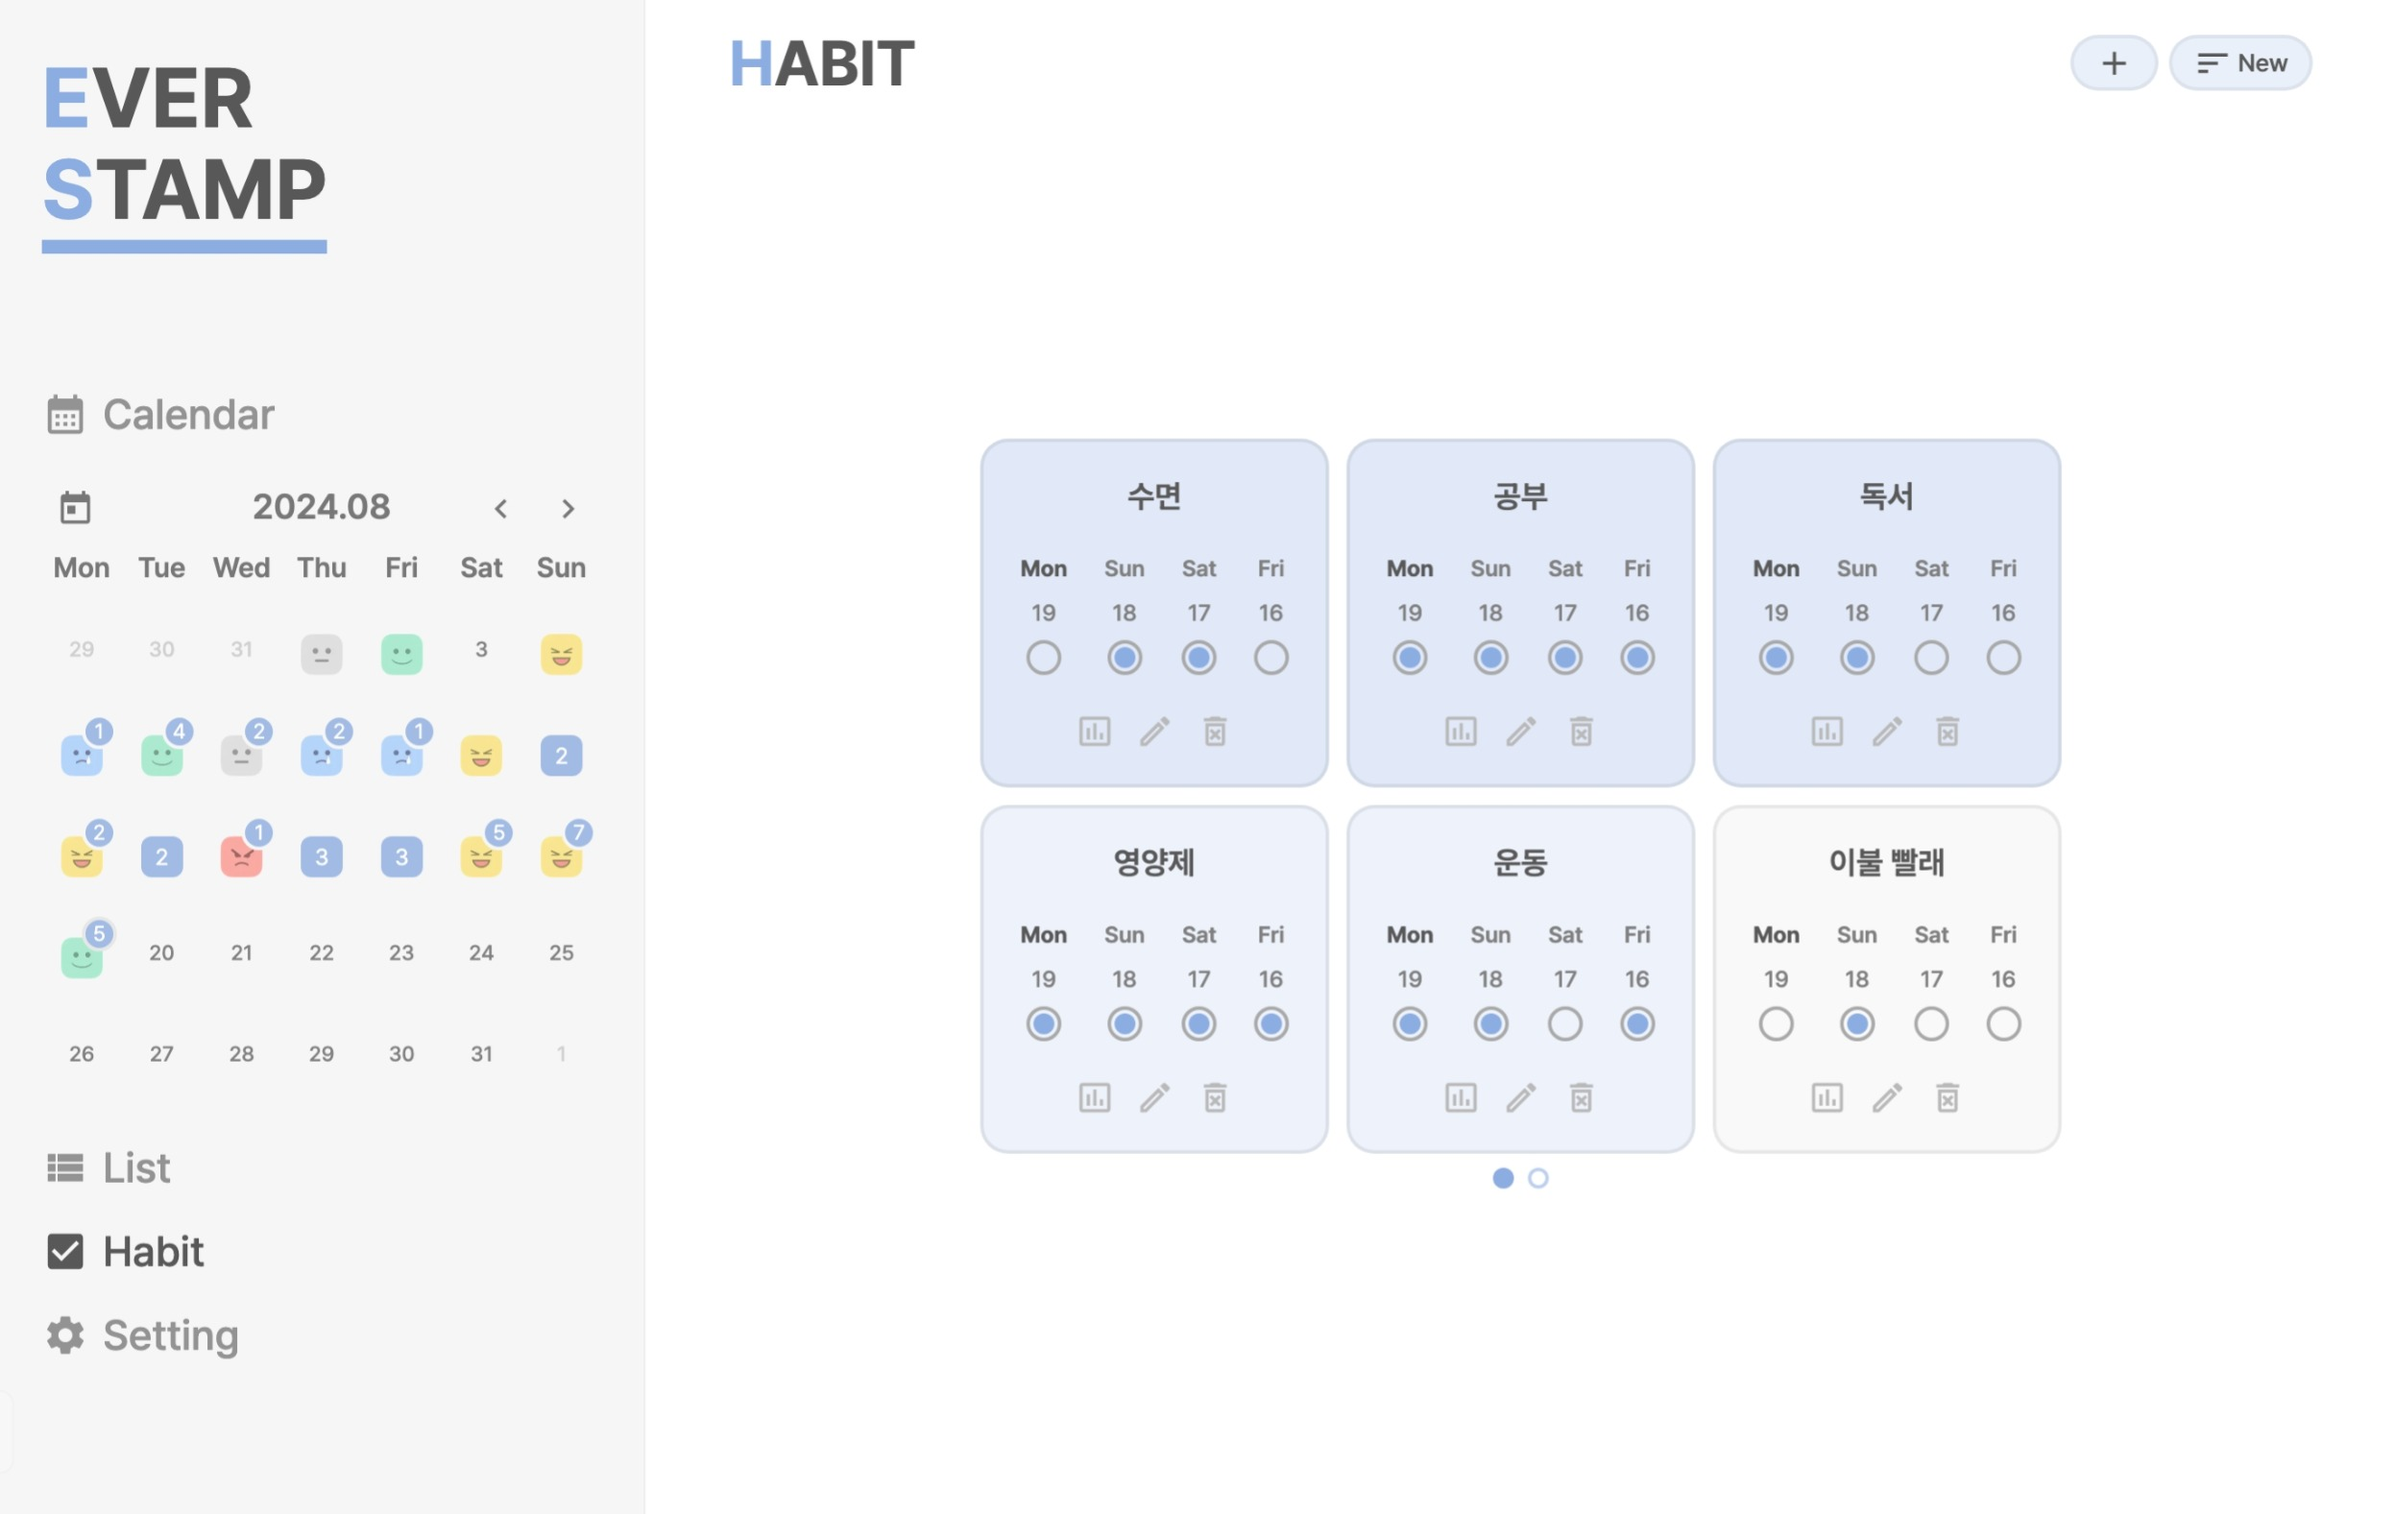
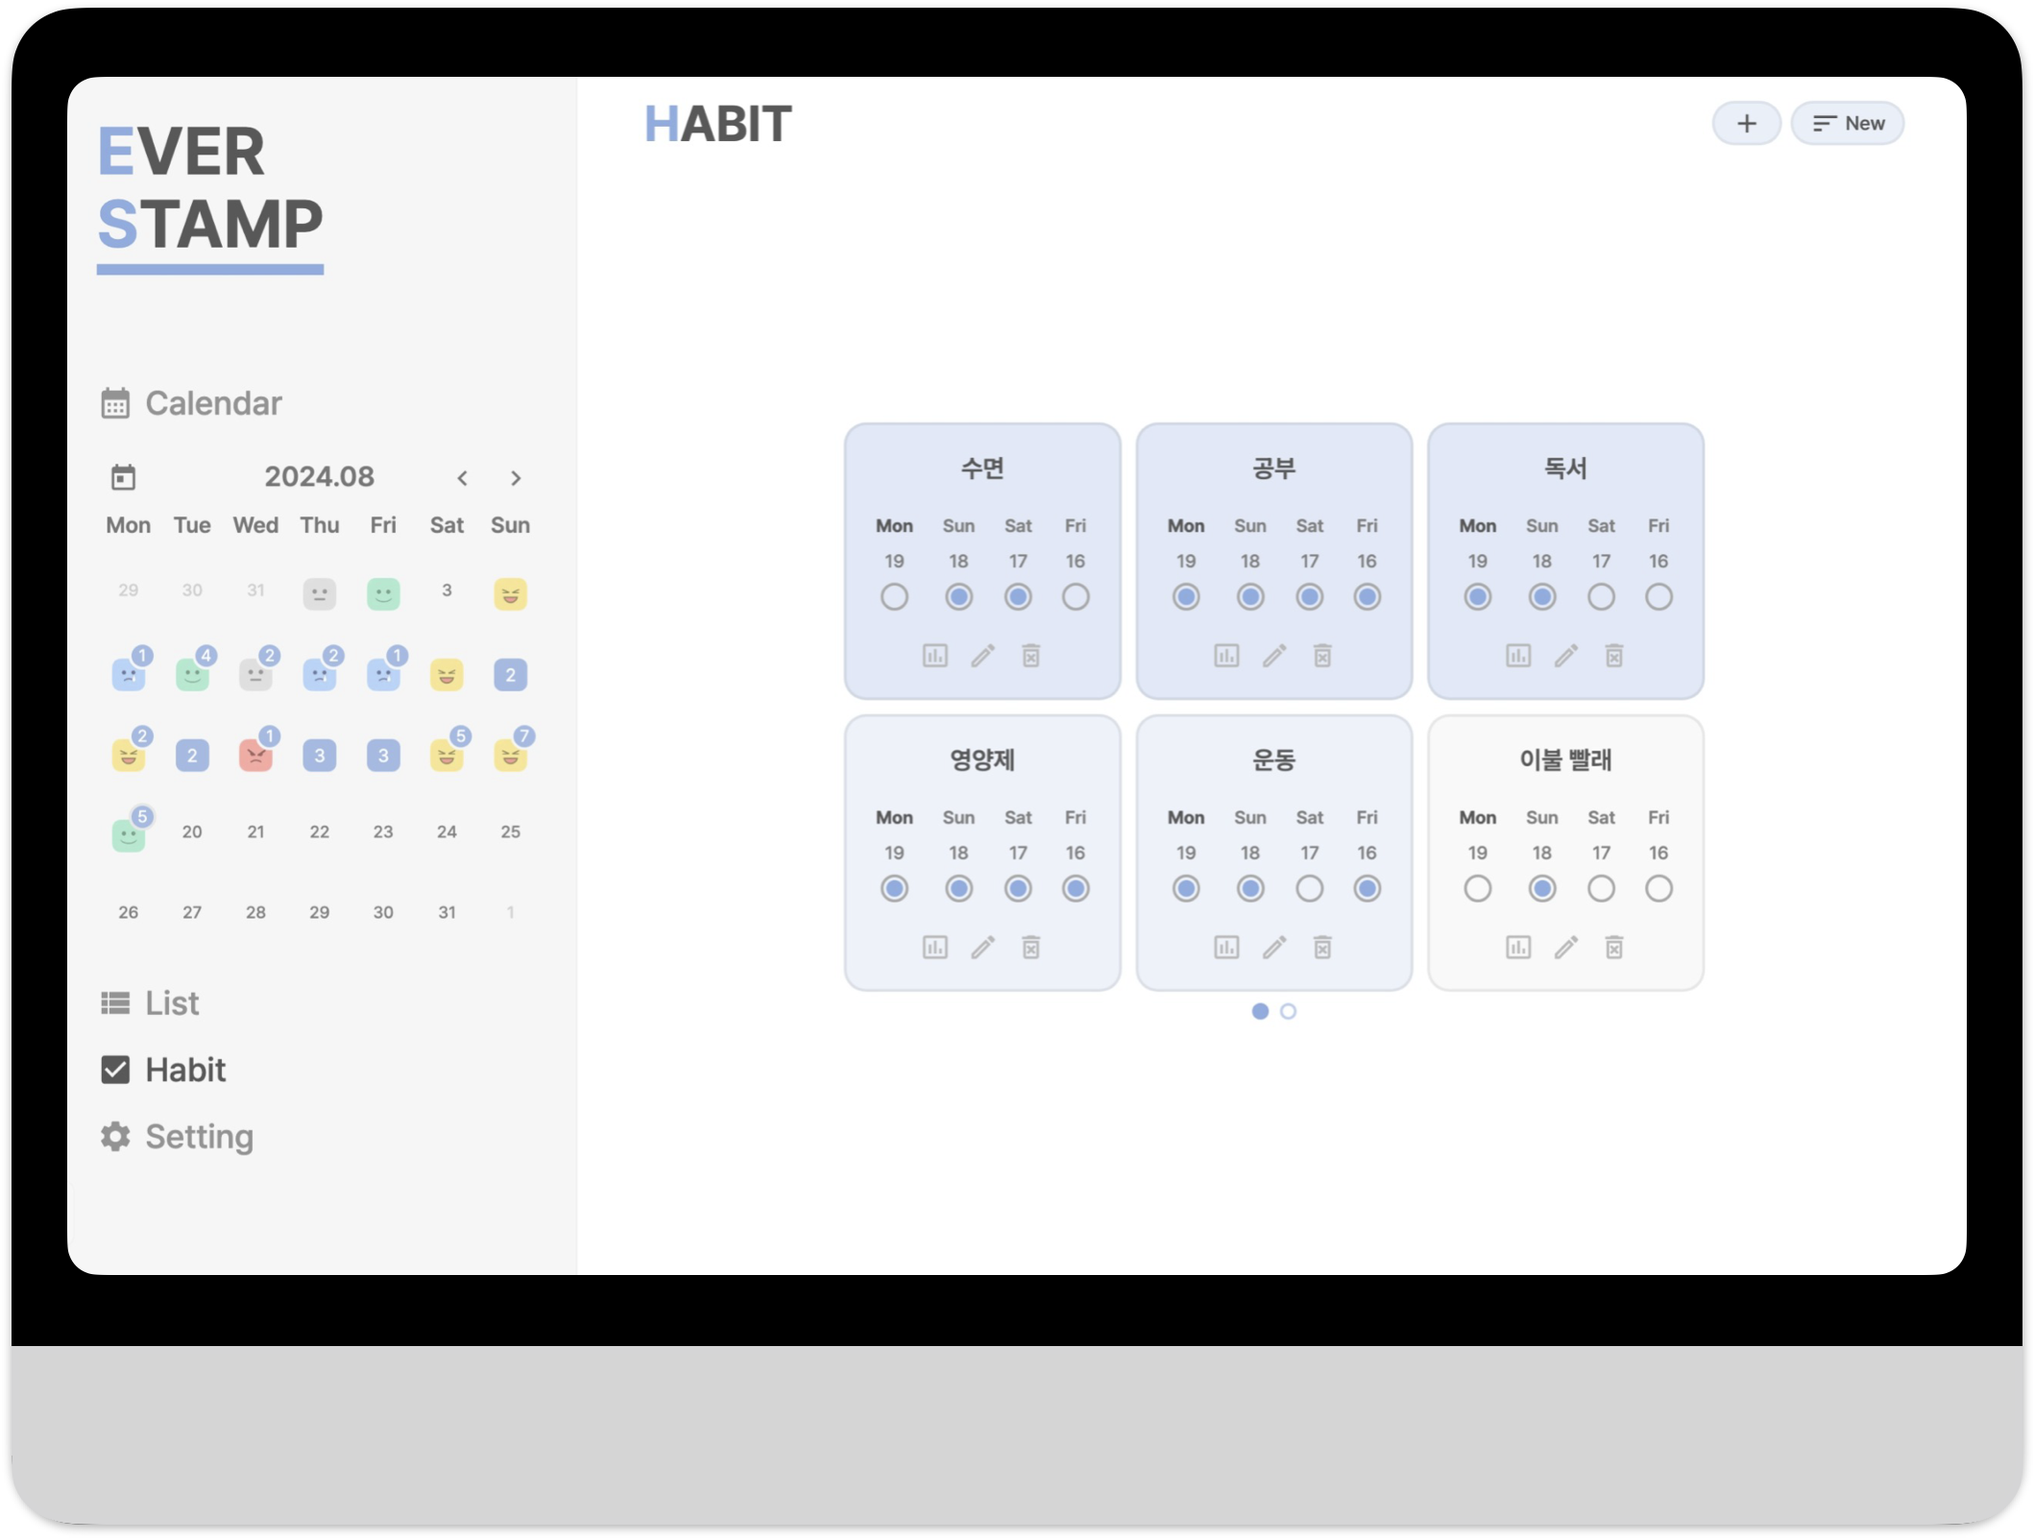
intro page image update - add device frame

diff --git a/front/src/component/common/ImageCarousel.tsx b/front/src/component/common/ImageCarousel.tsx
@@ -99,11 +99,4 @@ const Img = styled(Image) <{ $borderRadius?: string }>`
   max-height: 100%;
 
   box-sizing: border-box;
-  background-color: white;
-
-  border-radius: ${(props) => props.$borderRadius ? props.$borderRadius : '0px'};
-  @media (min-width:480px) and (max-width:1023px) and (max-height: 479px) { //mobild land only
-    border-radius: 12px;
-  }
-  box-shadow: 0px 0px 12px rgba(0,0,0,0.2);
 `

diff --git a/front/src/component/intro/IntroDesktop.tsx b/front/src/component/intro/IntroDesktop.tsx
@@ -392,8 +392,6 @@ const ImageWrapper = styled.div`
     width: auto;
     margin-left: 18px;
     margin-right: 18px;
-    box-shadow: 0px 0px 12px rgba(0,0,0,0.2);
-    border-radius: 12px;
   }
 `
 const Img = styled(Image)`

diff --git a/front/src/component/intro/IntroMobile.tsx b/front/src/component/intro/IntroMobile.tsx
@@ -227,8 +227,6 @@ const Images = styled.div`
     max-width: none;
     margin-left: 9px;
     margin-right: 9px;
-    box-shadow: 0px 0px 12px rgba(0,0,0,0.2);
-    border-radius: 12px;
   }
 `
 
